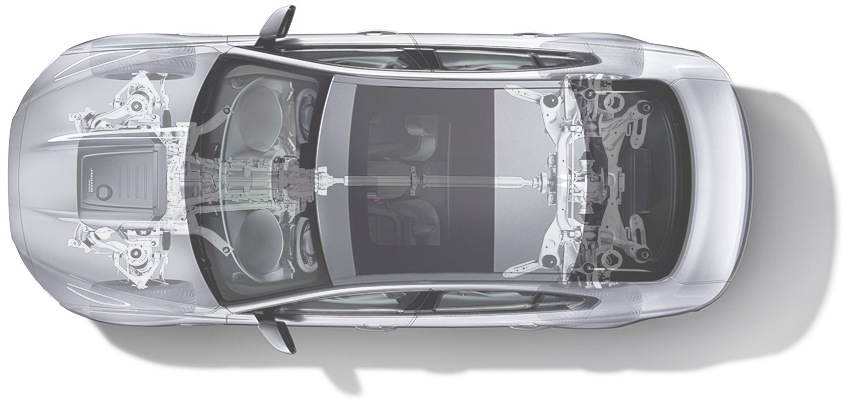
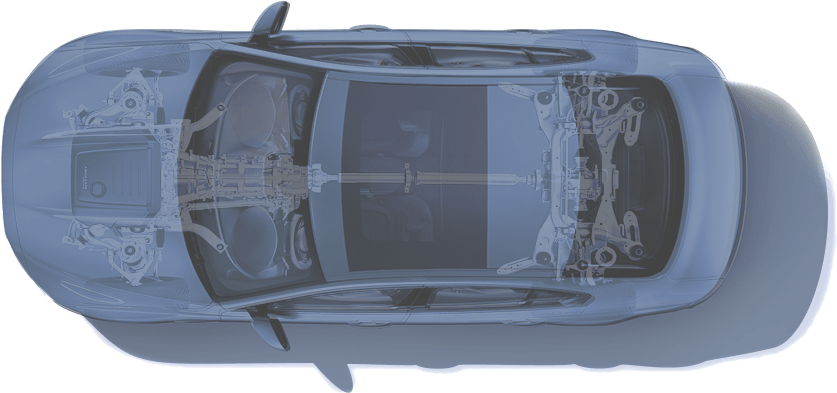
fix cars bgs for mot.html

diff --git a/source/less/blocks/main.less b/source/less/blocks/main.less
@@ -297,7 +297,7 @@
   background-size: 700px 286px;
 }
 .container--mot {
-  background: url("../img/08-mot/car-bg6.png") no-repeat right -60px bottom -250px;
+  background: url("../img/08-mot/car-bg.png") no-repeat right -60px bottom -250px;
   background-size: 843px 402px;
   &-invisible {
     display: none;
